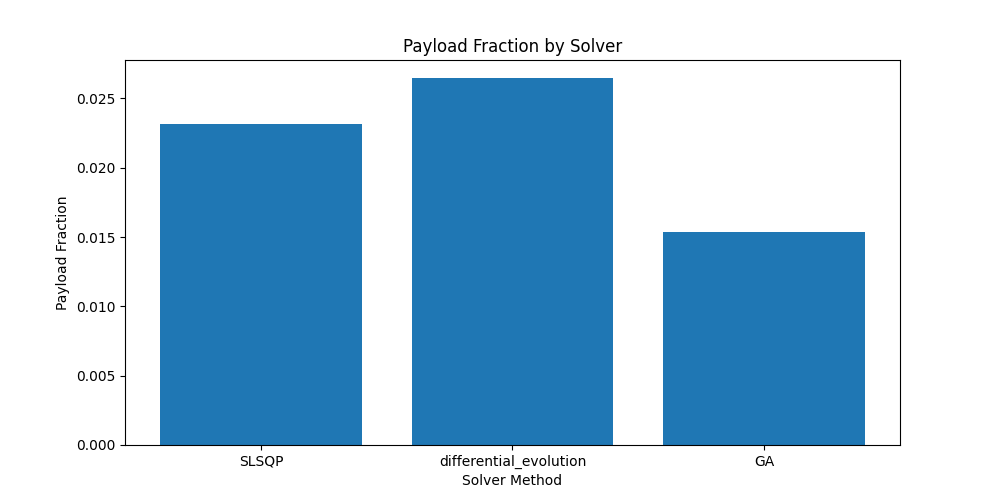
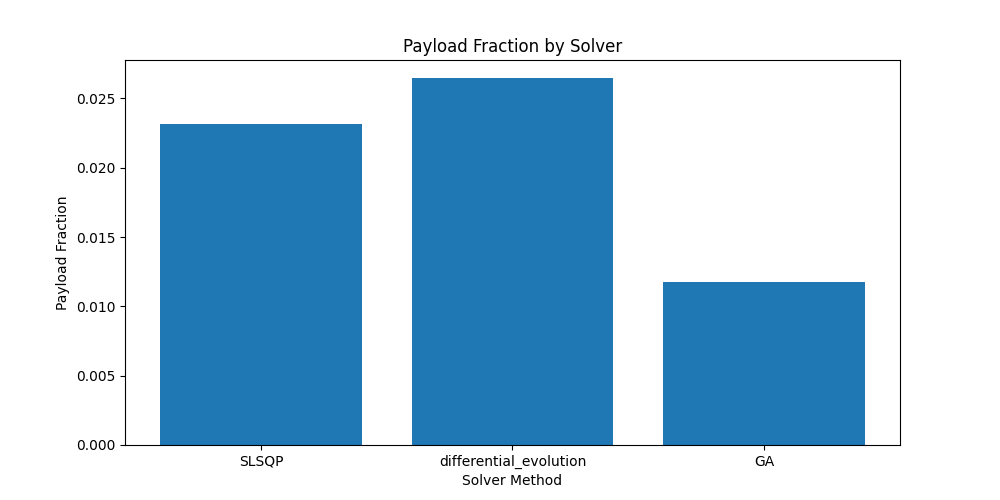
progress

Changed region(s): [[0.651, 0.45, 0.868, 0.57]]

diff --git a/Stage_Opt/payload_optimization.py b/Stage_Opt/payload_optimization.py
@@ -128,7 +128,7 @@ def optimize_payload_allocation(TOTAL_DELTA_V, ISP, EPSILON, G0=9.81, method='SL
             bounds, 
             args=(G0, ISP, EPSILON, TOTAL_DELTA_V),
             strategy='best1bin',
-            popsize=15,      # Increased population size may improve search
+            popsize=200,      # Increased population size may improve search
             tol=1e-6,
             mutation=(0.5, 1),
             recombination=0.7,

diff --git a/report.tex b/report.tex
@@ -13,9 +13,9 @@
 \hline
 Method & Time (s) & Payload Fraction \\
 \hline
-SLSQP & 0.0030 & 0.0232 \\
-differential_evolution & 6.5155 & 0.0264 \\
-GA & 1.0706 & 0.0118 \\
+SLSQP & 0.0020 & 0.0232 \\
+differential_evolution & 0.1187 & 0.7783 \\
+GA & 0.2546 & 0.7783 \\
 
 \hline
 \end{tabular}
